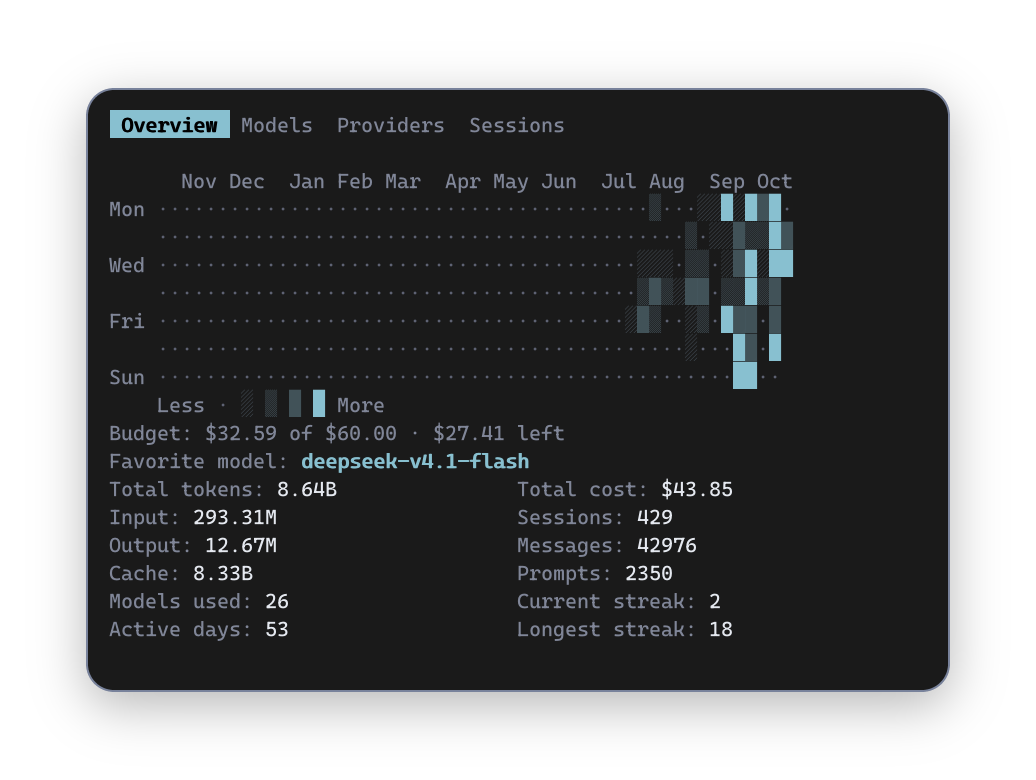
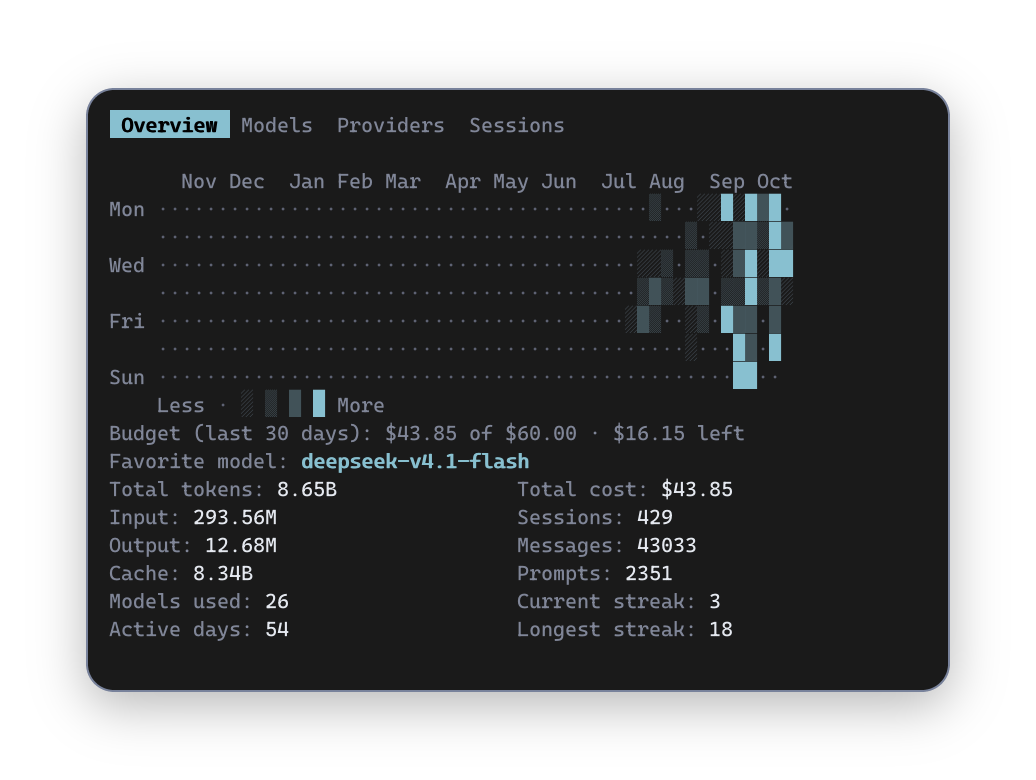
feat: measure the budget over the last 30 days and name the window
The budget counted the calendar month while the Overview beside it counts all
time, so the two figures disagreed on screen: "$32.59 of $60.00" next to a
total cost of $43.85. A cap should measure the burn you are actually making,
so it now counts the last 30 days - the same window the 30d range shows - and
the line names it: "Budget (last 30 days): $43.85 of $60.00 - $16.15 left".

The cap still does not move when the range selector changes; only the window
it measures changed.

diff --git a/src/analytics/mod.rs b/src/analytics/mod.rs
@@ -5,7 +5,7 @@ pub mod view;
 
 use std::collections::BTreeSet;
 
-use chrono::{Datelike, NaiveDate};
+use chrono::NaiveDate;
 
 use rust_decimal::Decimal;
 
@@ -19,7 +19,7 @@ use crate::analytics::view::View;
 use crate::cache::models_cache::PricingCatalog;
 use crate::db::models::{AppData, MessageRecord, UsageEvent};
 use crate::utils::pricing::{PriceSummary, ZeroCostBehavior, update_price_summary};
-use crate::utils::time::{TimeRange, current_local_date};
+use crate::utils::time::{TimeRange, current_local_date, in_range};
 
 #[derive(Clone, Debug)]
 pub struct OverviewStats {
@@ -260,10 +260,14 @@ impl BudgetState {
     }
 }
 
-/// The cost of the events in the same calendar month as `today`, using the same rule
-/// the overview uses for every row. The range selector plays no part: a budget answers
-/// what has been spent this month, whatever window the pages are showing.
-pub fn month_spend(
+/// The window the budget is measured over: the same one the `30d` range shows, so the
+/// budget and the list pages agree about what the last month means.
+pub const BUDGET_WINDOW: TimeRange = TimeRange::Last30Days;
+
+/// The cost of the events inside the budget window, using the same rule the overview
+/// uses for every row. The range selector plays no part: a budget answers what the last
+/// 30 days cost, whatever window the pages are showing.
+pub fn budget_spend(
     events: &[UsageEvent],
     pricing: &PricingCatalog,
     zero_cost_behavior: ZeroCostBehavior,
@@ -271,10 +275,10 @@ pub fn month_spend(
 ) -> PriceSummary {
     let mut spend = PriceSummary::default();
     for event in events {
-        let in_month = event
+        let in_window = event
             .activity_date()
-            .is_some_and(|date| date.year() == today.year() && date.month() == today.month());
-        if in_month {
+            .is_some_and(|date| in_range(date, BUDGET_WINDOW, today));
+        if in_window {
             update_price_summary(&mut spend, pricing, event, zero_cost_behavior);
         }
     }
@@ -514,37 +518,54 @@ mod tests {
     }
 
     #[test]
-    fn month_spend_counts_only_the_current_calendar_month() {
+    fn budget_spend_counts_the_last_thirty_days() {
+        // A rolling window, not a calendar month: the last 30 days, which is the same
+        // window the `30d` range shows.
         let today = current_local_date();
         let now = Local::now();
-        let mut this_month = event_with("this-month", "acme", Some(Decimal::new(3, 0)), 100);
-        this_month.created_at = Some(now);
-        this_month.session_started_at = Some(now);
+        let mut inside = event_with("inside", "acme", Some(Decimal::new(3, 0)), 100);
+        inside.created_at = Some(now);
+        inside.session_started_at = Some(now);
 
-        let mut last_month = event_with("last-month", "acme", Some(Decimal::new(7, 0)), 200);
+        let mut edge = event_with("edge", "acme", Some(Decimal::new(5, 0)), 100);
+        let twenty_nine_days_ago = today - chrono::Duration::days(29);
+        let stamp = twenty_nine_days_ago
+            .and_hms_opt(9, 0, 0)
+            .unwrap()
+            .and_local_timezone(Local)
+            .unwrap();
+        edge.created_at = Some(stamp);
+        edge.session_started_at = Some(stamp);
+
+        let mut outside = event_with("outside", "acme", Some(Decimal::new(7, 0)), 200);
         let forty_days_ago = today - chrono::Duration::days(40);
         let stamp = forty_days_ago
             .and_hms_opt(9, 0, 0)
             .unwrap()
             .and_local_timezone(Local)
             .unwrap();
-        last_month.created_at = Some(stamp);
-        last_month.session_started_at = Some(stamp);
+        outside.created_at = Some(stamp);
+        outside.session_started_at = Some(stamp);
 
-        let spend = super::month_spend(
-            &[this_month, last_month],
+        let spend = super::budget_spend(
+            &[inside, edge, outside],
             &empty_catalog(),
             ZeroCostBehavior::KeepZero,
             today,
         );
 
-        assert_eq!(spend.known, Decimal::new(3, 0));
+        assert_eq!(
+            spend.known,
+            Decimal::new(8, 0),
+            "today and 29 days ago count, 40 days ago does not"
+        );
         assert!(spend.has_known);
     }
 
     #[test]
-    fn month_spend_ignores_the_range_by_construction() {
-        // The function takes no range: whatever the pages show, the budget answers the month.
+    fn budget_spend_ignores_the_range_by_construction() {
+        // The function takes no range: whatever the pages show, the budget answers the
+        // last 30 days.
         let today = current_local_date();
         let mut event = event_with("m", "acme", Some(Decimal::ONE), 10);
         let now = Local::now();
@@ -553,7 +574,7 @@ mod tests {
 
         for range in [TimeRange::All, TimeRange::Today, TimeRange::Last7Days] {
             let _ = range;
-            let spend = super::month_spend(
+            let spend = super::budget_spend(
                 std::slice::from_ref(&event),
                 &empty_catalog(),
                 ZeroCostBehavior::KeepZero,

diff --git a/src/ui/app.rs b/src/ui/app.rs
@@ -329,13 +329,13 @@ impl App {
         self.refresh_budget();
     }
 
-    /// What the month has cost so far against the configured cap. Recomputed with the
+    /// What the last 30 days cost, against the configured cap. Recomputed with the
     /// snapshot because both answer the same data, and the budget ignores the range the
     /// pages are showing.
     fn refresh_budget(&mut self) {
         self.budget = self.budget_cap.map(|cap| BudgetState {
             cap,
-            spend: crate::analytics::month_spend(
+            spend: crate::analytics::budget_spend(
                 &self.data.events,
                 &self.pricing,
                 self.zero_cost_behavior,
@@ -1316,7 +1316,7 @@ mod tests {
         );
         let frame = frame_text(&under, 100, 24);
         assert!(
-            frame.contains("Budget: $3.00 of $10.00 · $7.00 left"),
+            frame.contains("Budget (last 30 days): $3.00 of $10.00 · $7.00 left"),
             "under: {frame}"
         );
 
@@ -1334,7 +1334,7 @@ mod tests {
             None,
         );
         assert!(
-            frame_text(&exact, 100, 24).contains("Budget: $3.00 of $3.00 · at cap"),
+            frame_text(&exact, 100, 24).contains("Budget (last 30 days): $3.00 of $3.00 · at cap"),
             "exactly at"
         );
 
@@ -1353,7 +1353,8 @@ mod tests {
         );
         let frame = frame_text(&over, 100, 24);
         assert!(
-            frame.contains("Budget: $3.00 of $2.00") && frame.contains("OVER by $1.00"),
+            frame.contains("Budget (last 30 days): $3.00 of $2.00")
+                && frame.contains("OVER by $1.00"),
             "over, visually distinct: {frame}"
         );
     }
@@ -1383,7 +1384,7 @@ mod tests {
             );
             let budget = frame_text(&app, 100, 24)
                 .lines()
-                .find(|line| line.contains("Budget:"))
+                .find(|line| line.contains("Budget"))
                 .unwrap_or_default()
                 .to_string();
             lines.push(budget);
@@ -1402,7 +1403,7 @@ mod tests {
         let frame = frame_text(&app, 100, 24);
 
         assert!(
-            !frame.contains("Budget:"),
+            !frame.contains("Budget"),
             "byte-identical behaviour: {frame}"
         );
     }

diff --git a/src/ui/overview.rs b/src/ui/overview.rs
@@ -144,13 +144,15 @@ pub fn render_overview(
     }
 }
 
-/// One line: what the month cost so far, the cap, and what is left. The over state is
-/// the only one that raises its voice, in the accent style.
+/// One line: what the budget window cost, the cap, and what is left. The over state is
+/// the only one that raises its voice, in the accent style. The window is named, so the
+/// figure is never read as the all-time total shown further down.
 fn budget_line(budget: &BudgetState, theme: &Theme) -> Line<'static> {
     let spent = format_usd_precise(budget.spend.known);
     let cap = format_usd_precise(budget.cap);
+    let window = crate::analytics::BUDGET_WINDOW.label().to_lowercase();
     let mut spans = vec![
-        Span::styled("Budget: ", theme.muted_style()),
+        Span::styled(format!("Budget ({window}): "), theme.muted_style()),
         Span::styled(format!("{spent} of {cap}"), theme.muted_style()),
     ];
 
@@ -206,15 +208,15 @@ mod tests {
     fn states_have_the_intended_words() {
         assert_eq!(
             text(&state("3", "10")),
-            "Budget: $3.00 of $10.00 · $7.00 left"
+            "Budget (last 30 days): $3.00 of $10.00 · $7.00 left"
         );
         assert_eq!(
             text(&state("10", "10")),
-            "Budget: $10.00 of $10.00 · at cap"
+            "Budget (last 30 days): $10.00 of $10.00 · at cap"
         );
         assert_eq!(
             text(&state("12", "10")),
-            "Budget: $12.00 of $10.00 · OVER by $2.00"
+            "Budget (last 30 days): $12.00 of $10.00 · OVER by $2.00"
         );
     }
 

diff --git a/src/config/app_config.rs b/src/config/app_config.rs
@@ -67,7 +67,8 @@ impl BrandSection {
     }
 }
 
-/// A monthly spending cap in US dollars. Absent means no budget line.
+/// A spending cap in US dollars, measured over the last 30 days. Absent means no
+/// budget line.
 #[derive(Clone, Debug, Default, Deserialize, PartialEq)]
 #[serde(default, deny_unknown_fields)]
 pub struct BudgetSection {

diff --git a/README.md b/README.md
@@ -45,14 +45,14 @@ This repository is **my personal fork** of [Cateds/opencode-stats](https://githu
 - A `Sessions` page ranked by cost, beside `Models` and `Providers`.
 - Live reload of the database without restarting.
 - `Overview` is the whole picture: always all time and without a range selector. The range applies to `Models`, `Providers` and `Sessions`, and is remembered while you move between pages.
-- A monthly budget on the `Overview`: what the calendar month cost, the cap, and what is left.
+- A spending cap on the `Overview`: what the last 30 days cost, the cap, and what is left.
 - Activity streaks: the current run of days and the longest one, on the `Overview` and on every session.
 - The sessions list scrolls with the focus and stays inside its own area.
 - Copy the current view as a share card with `Ctrl+S` or `s`: the image goes to the clipboard, the card is also written as a PNG beside your exports, transient clipboard failures are retried, and the footer names exactly what landed.
 
 **Configuration**
 
-- A `config.toml` with optional sections: `[app]` (`page`, `range`, `db`, `reload_every`), `[view]` (`project`, `pinned_models`, `pinned_providers`), `[budget]` (a monthly cap), `[brand]` (your own strings) and `[theme]`. Every key is optional, and an invalid value fails at startup naming the key and the accepted values.
+- A `config.toml` with optional sections: `[app]` (`page`, `range`, `db`, `reload_every`), `[view]` (`project`, `pinned_models`, `pinned_providers`), `[budget]` (a spending cap), `[brand]` (your own strings) and `[theme]`. Every key is optional, and an invalid value fails at startup naming the key and the accepted values.
 - Database precedence is `--db`, then `[app] db`, then `OC_STATS_DB_PATH`, then discovery.
 - The full reference — every section, its values and defaults — is in [`docs/config.md`](docs/config.md).
 

diff --git a/docs/config.md b/docs/config.md
@@ -88,17 +88,19 @@ snapshot. While a filter is active, the rule above the content says so.
 
 ## `[budget]`
 
-A monthly spending cap in US dollars.
+A spending cap in US dollars, measured over the last 30 days.
 
 ```toml
 [budget]
 monthly = 50
 ```
 
-When set, the Overview shows what the month cost so far, the cap, and what is
-left; the over state reads `OVER by $X`. The month is always the calendar
-month, so changing the range selector changes what is listed but never whether
-you are over. A negative cap fails at startup. Absent means no budget line.
+When set, the Overview shows what the last 30 days cost, the cap, and what is
+left; the over state reads `OVER by $X`. The window is the one the `30d` range
+shows, and it rolls: it is the last 30 days, not the calendar month, so the cap
+measures your recent burn. Changing the range selector changes what is listed
+but never whether you are over. A negative cap fails at startup. Absent means
+no budget line.
 
 ## `[brand]`
 

diff --git a/AGENTS.md b/AGENTS.md
@@ -31,6 +31,7 @@ Data flow: `db::queries::load_app_data` → `analytics::build_snapshot` → `ui:
 - Themes: same directory, `themes/*.toml` (name from the file name; overrides a built-in of the same name)
 - `[app]` section: `page`, `range`, `db` (all optional; absent means Overview, all time, discovered database)
 - `[view]` section: `project`, `pinned_models`, `pinned_providers` (all optional; no filter unless asked for)
+- `[budget]` section: `monthly` (a spending cap in USD, measured over the last 30 days)
 - Full reference: `docs/config.md`
 
 ## Agent skills
